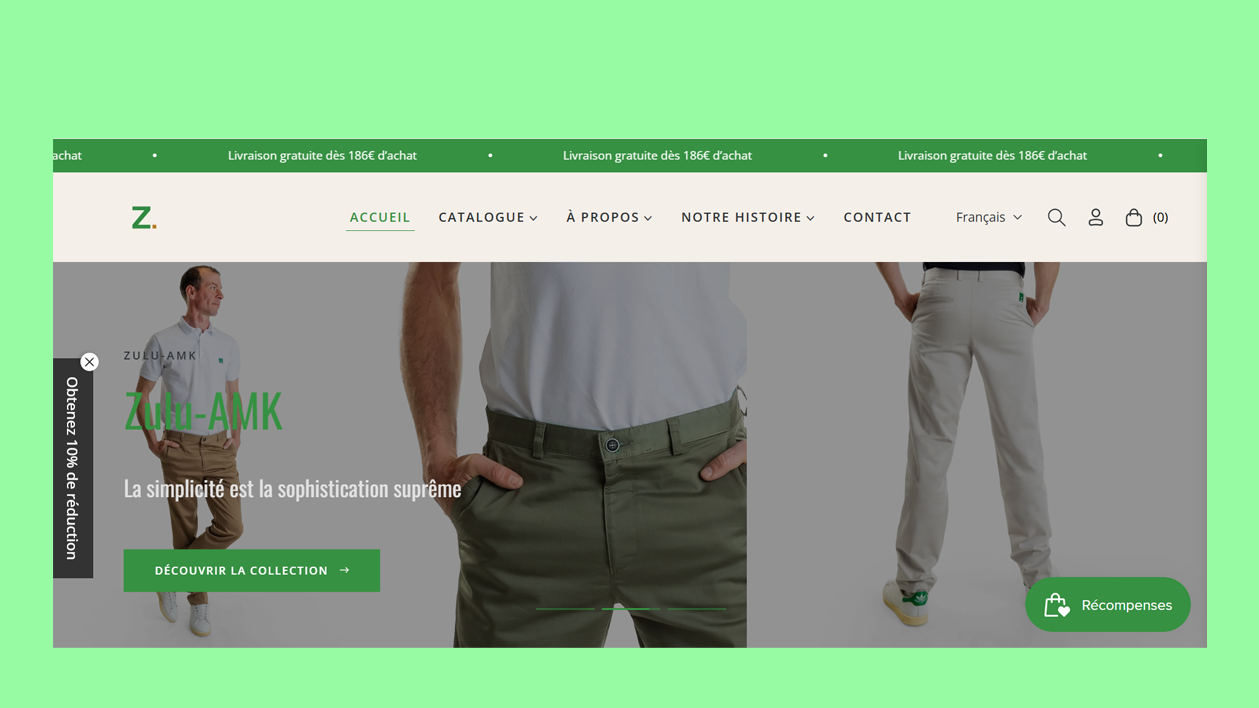
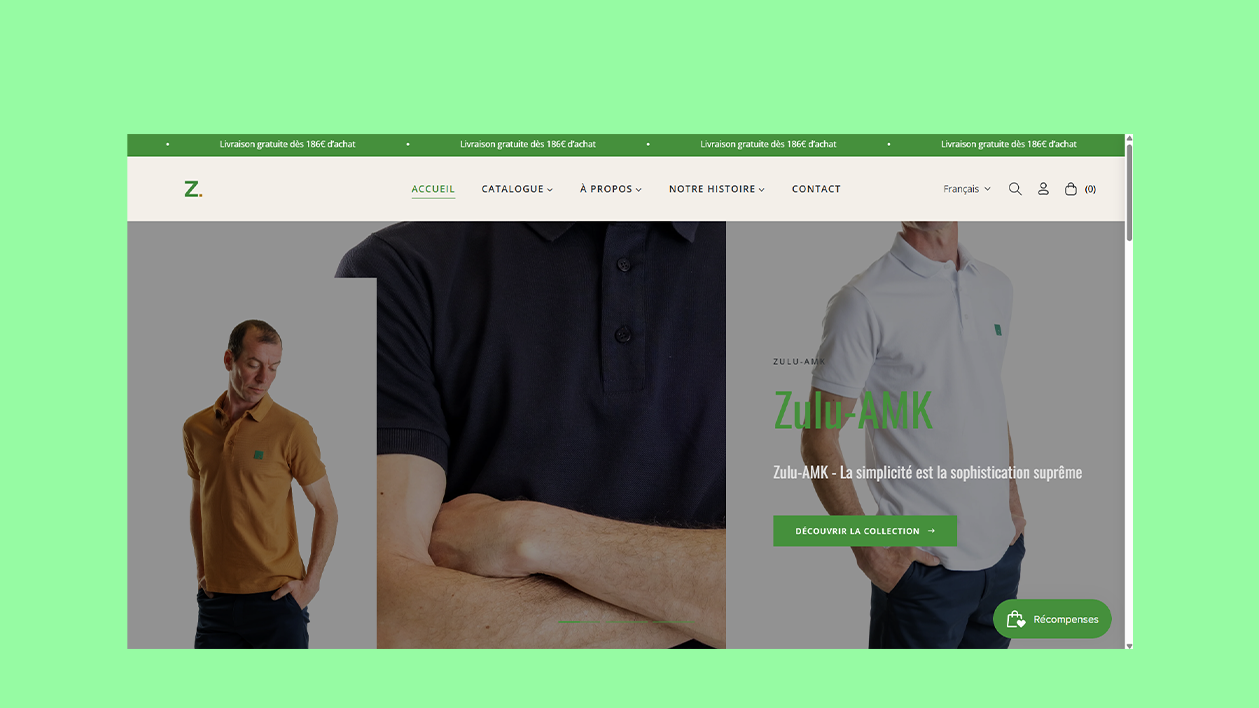
edit

diff --git a/resources/views/partials/home/processus.blade.php b/resources/views/partials/home/processus.blade.php
@@ -13,9 +13,9 @@
     $etapes = [
       [
         'num' => '01',
-        'titre' => 'Accès à votre espace client',
-        'desc' => "Vous recevez un lien vers votre espace privé, avec un formulaire simple pour nous transmettre tout ce dont nous avons besoin pour démarrer.",
-        'chips' => ['E-mail de bienvenue', 'Espace personnel'],
+        'titre' => 'Accès à votre boutique',
+        'desc' => "Vous recevrez un processus complet expliqué étape par étape pour nous donner l’accès à votre boutique.",
+        'chips' => ['Accès à la boutique', 'Processus complet'],
         'rotate' => '-1.5deg',
       ],
       [
@@ -28,7 +28,7 @@
       [
         'num' => '03',
         'titre' => 'Livraison, prête à vendre',
-        'desc' => "Vous recevez tous les accès : design finalisé, structure complète, fiches produits, fournisseurs — votre boutique est opérationnelle dès réception.",
+        'desc' => "Vous recevez votre boutique prête à 100% : design finalisé, structure complète, fiches produits, fournisseurs — votre boutique est opérationnelle dès réception.",
         'chips' => ['Boutique Shopify', 'Prête à l\'emploi'],
         'rotate' => '-1deg',
       ],

diff --git a/resources/views/partials/home/features.blade.php b/resources/views/partials/home/features.blade.php
@@ -94,8 +94,8 @@
             <h3 class="tracking-tight-body mt-2.5 text-[16.5px] font-semibold text-[var(--color-foreground)]">Sneaker Édition Limitée</h3>
 
             <div class="mt-1.5 flex items-baseline gap-2">
-              <span class="text-[19px] font-bold text-[var(--color-foreground)]">42 000 FCFA</span>
-              <span class="text-[13px] text-[var(--color-foreground-muted)] line-through">55 000 FCFA</span>
+              <span class="text-[19px] font-bold text-[var(--color-foreground)]">55 €</span>
+              <span class="text-[13px] text-[var(--color-foreground-muted)] line-through">80 €</span>
             </div>
 
             <p class="mt-2.5 flex items-center gap-1.5 text-[12px] font-medium text-[var(--color-primary)]">
